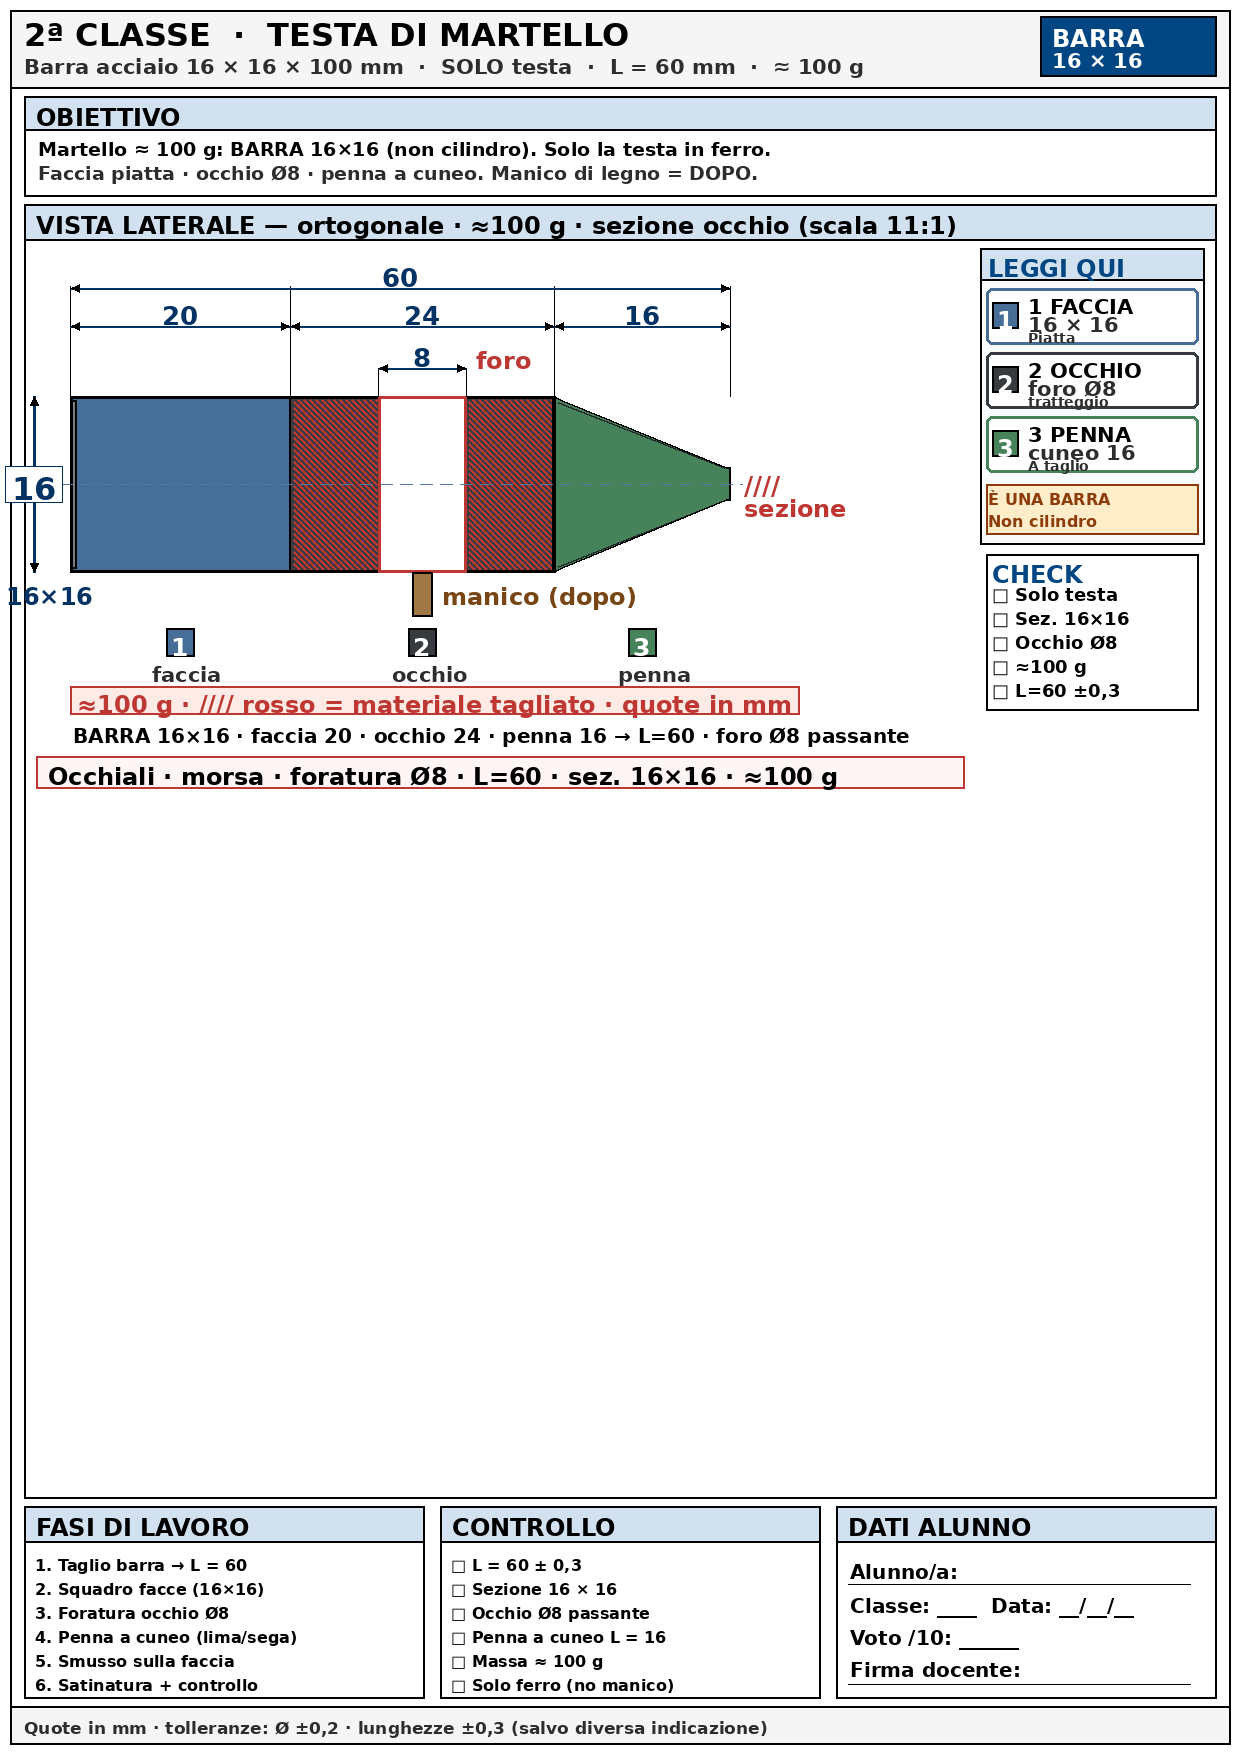
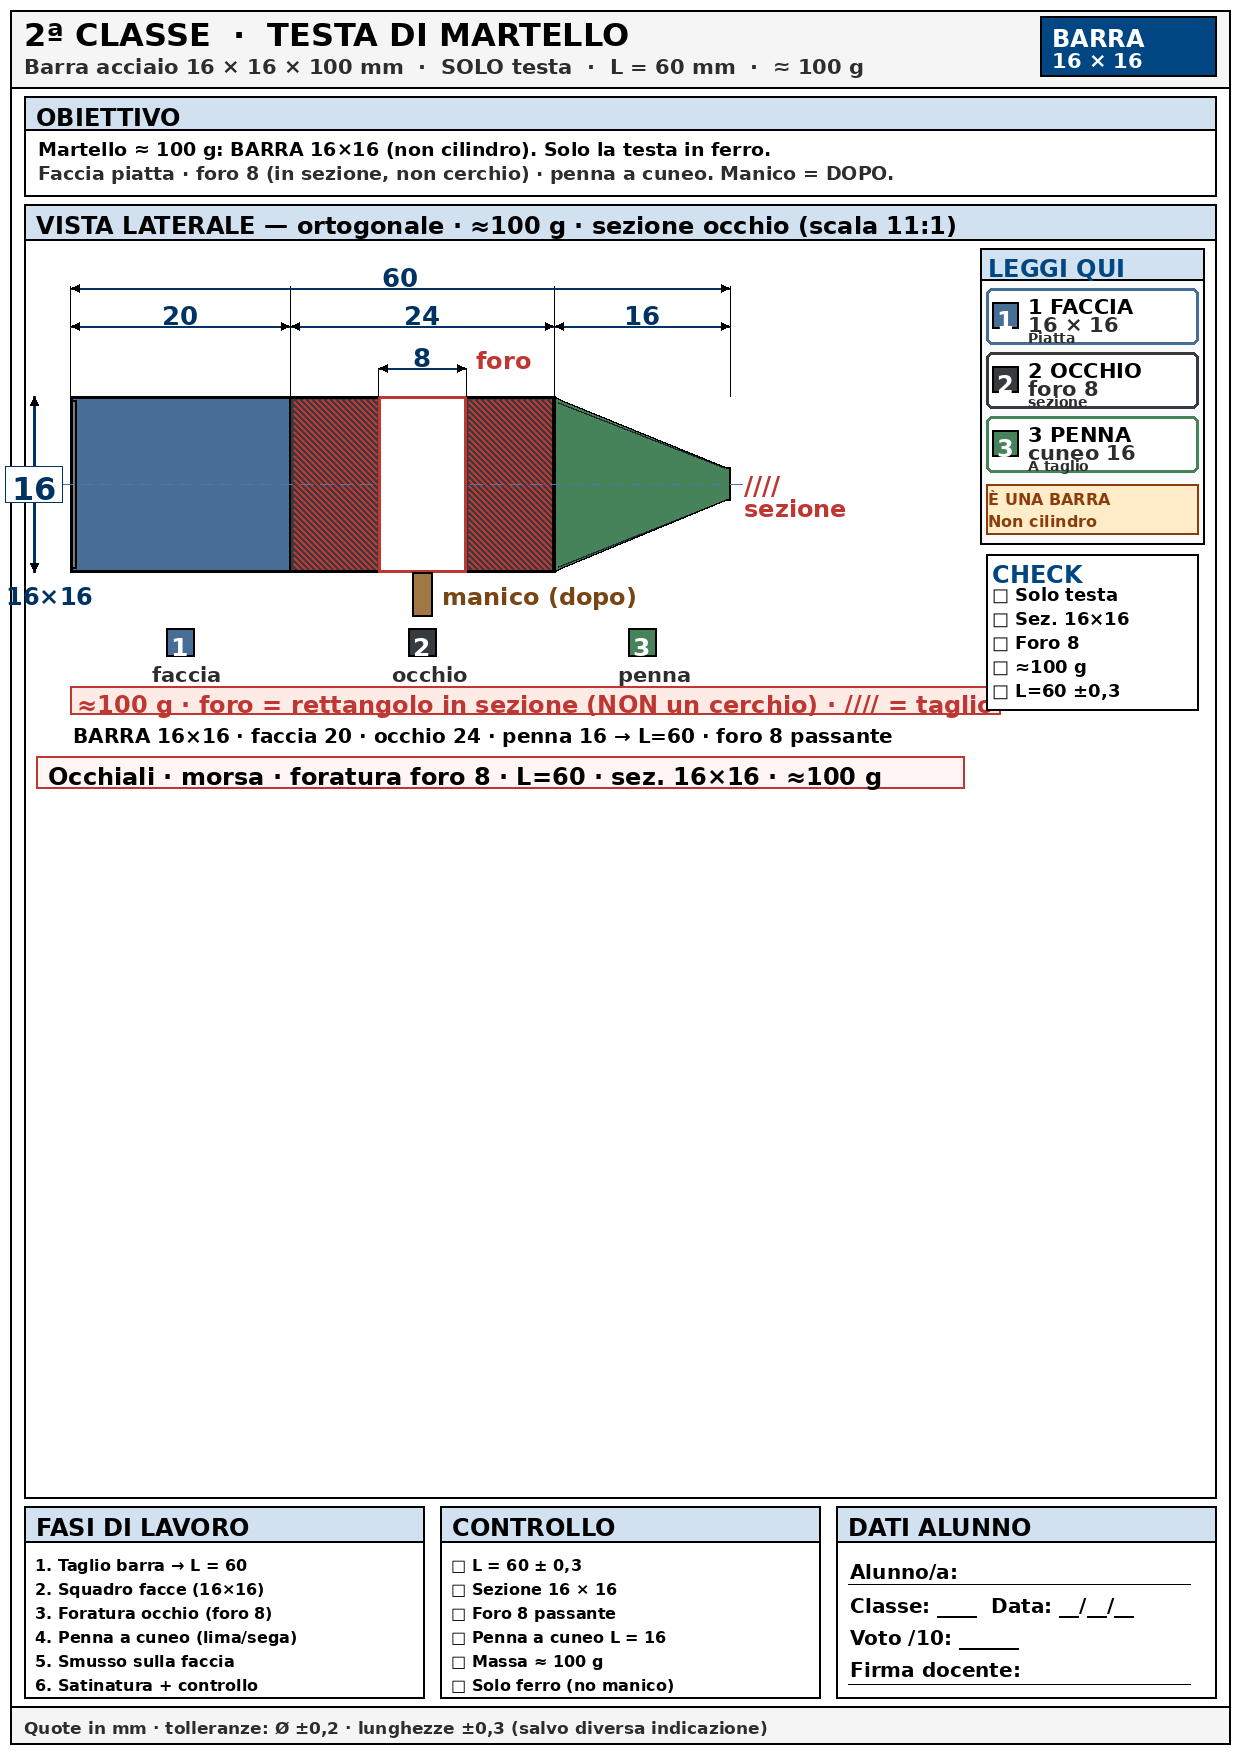
Rimuove ogni effetto cerchio: foro solo rettangolo in sezione.
Niente asse nel foro; testi senza simbolo Ø sull’occhio.

diff --git a/progetti-ferro-gallery/generate_ferro.py b/progetti-ferro-gallery/generate_ferro.py
@@ -458,14 +458,14 @@ def make_2a():
         d,
         [
             "Martello ≈ 100 g: BARRA 16×16 (non cilindro). Solo la testa in ferro.",
-            ("Faccia piatta · occhio Ø8 · penna a cuneo. Manico di legno = DOPO.", GRAY),
+            ("Faccia piatta · foro 8 (in sezione, non cerchio) · penna a cuneo. Manico = DOPO.", GRAY),
         ],
     )
 
     fasi = [
         "1. Taglio barra → L = 60",
         "2. Squadro facce (16×16)",
-        "3. Foratura occhio Ø8",
+        "3. Foratura occhio (foro 8)",
         "4. Penna a cuneo (lima/sega)",
         "5. Smusso sulla faccia",
         "6. Satinatura + controllo",
@@ -473,7 +473,7 @@ def make_2a():
     ctrl = [
         "□ L = 60 ± 0,3",
         "□ Sezione 16 × 16",
-        "□ Occhio Ø8 passante",
+        "□ Foro 8 passante",
         "□ Penna a cuneo L = 16",
         "□ Massa ≈ 100 g",
         "□ Solo ferro (no manico)",
@@ -499,7 +499,7 @@ def make_2a():
 
     blocks = [
         (FACE_C, "FACCIA", "16 × 16", "Piatta"),
-        (IRON, "OCCHIO", "foro Ø8", "tratteggio"),
+        (IRON, "OCCHIO", "foro 8", "sezione"),
         (PEEN_C, "PENNA", "cuneo 16", "A taglio"),
     ]
     for i, (col, title, line1, line2) in enumerate(blocks):
@@ -566,7 +566,9 @@ def make_2a():
     d.polygon(penna, outline=BLACK, width=2)
     d.rectangle([hole_l, mid - h, hole_r, mid + h], outline=CAP_RED, width=3)
 
-    centerline(d, x0 - 10, end_x + 12, mid)
+    # Asse solo su faccia e penna (NON attraverso il foro — evita effetto “cerchio”)
+    centerline(d, x0 - 10, hole_l - 4, mid)
+    centerline(d, hole_r + 4, end_x + 12, mid)
 
     # Quote LUNGHEZZE — SOPRA (più in alto per lasciare posto al foro)
     top = mid - h
@@ -620,7 +622,7 @@ def make_2a():
     d.text((peen_mid - 24, badge_y + 20), "penna", fill=GRAY, font=F12)
 
     fy = badge_y + 44
-    ftxt = "≈100 g · //// rosso = materiale tagliato · quote in mm"
+    ftxt = "≈100 g · foro = rettangolo in sezione (NON un cerchio) · //// = taglio"
     ftw = d.textlength(ftxt, font=F13) + 14
     d.rectangle([ox, fy, ox + ftw, fy + 28], fill=(255, 235, 230), outline=CAP_RED, width=2)
     d.text((ox + 7, fy + 4), ftxt, fill=CAP_RED, font=F13)
@@ -628,16 +630,16 @@ def make_2a():
     note_y = fy + 36
     text_in_box(
         d, ox, note_y, info_x1 - ox - 20, 26,
-        "BARRA 16×16 · faccia 20 · occhio 24 · penna 16 → L=60 · foro Ø8 passante",
+        "BARRA 16×16 · faccia 20 · occhio 24 · penna 16 → L=60 · foro 8 passante",
         F13, BLACK, pad=3,
     )
 
     tip_y = note_y + 34
     d.rectangle([36, tip_y, info_x1 - 16, tip_y + 32], fill=(255, 245, 245), outline=CAP_RED, width=2)
-    d.text((48, tip_y + 6), "Occhiali · morsa · foratura Ø8 · L=60 · sez. 16×16 · ≈100 g", fill=BLACK, font=F13)
+    d.text((48, tip_y + 6), "Occhiali · morsa · foratura foro 8 · L=60 · sez. 16×16 · ≈100 g", fill=BLACK, font=F13)
 
     right_y = draw_top + 350
-    checks = ["□ Solo testa", "□ Sez. 16×16", "□ Occhio Ø8", "□ ≈100 g", "□ L=60 ±0,3"]
+    checks = ["□ Solo testa", "□ Sez. 16×16", "□ Foro 8", "□ ≈100 g", "□ L=60 ±0,3"]
     rh = 30 + len(checks) * 24 + 6
     d.rectangle([info_x1 + 6, right_y, info_x2 - 6, right_y + rh], fill=WHITE, outline=BLACK, width=2)
     d.text((info_x1 + 12, right_y + 6), "CHECK", fill=ACCENT, font=F13)
